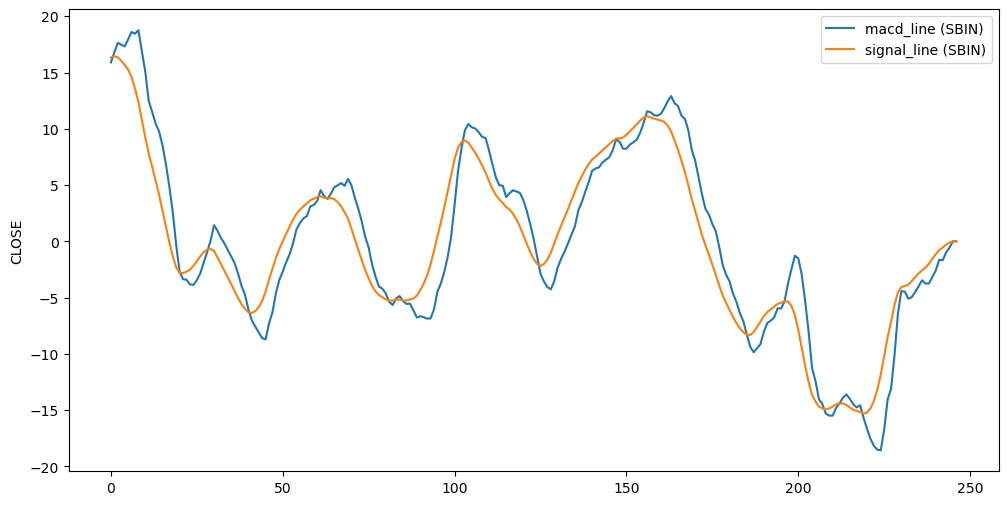
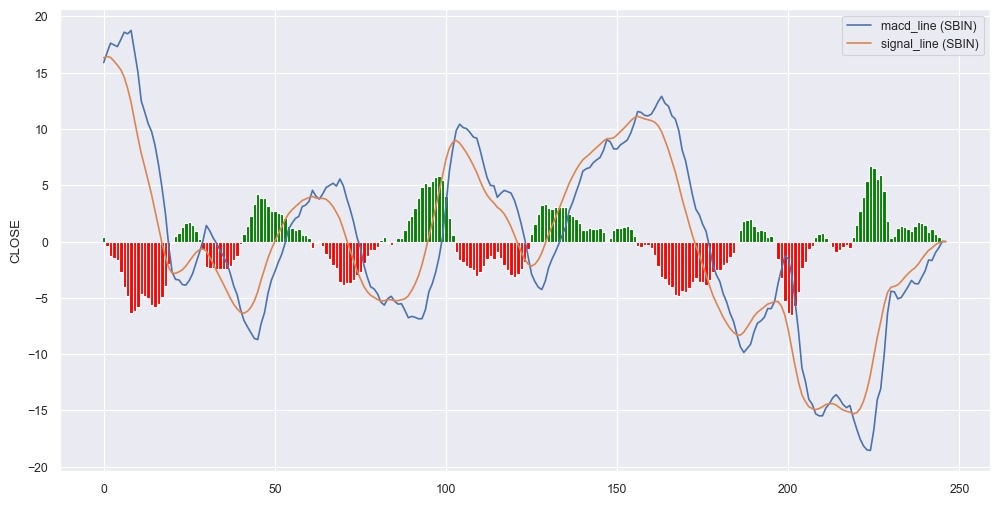
readme

diff --git a/Strategies/README.md b/Strategies/README.md
@@ -1,17 +1,53 @@
-## Trading Strategies
+# Trading Strategies
 
 
-#### Basic Strategy
+### Basic
 This is one of the simplestst strategy. Being the easiest to implement, this will lead to bad trading decisions most of the time. Let us consider a situation where a stock's price increases for n-1 days and then suddenly drops on the nth day, for example increases for a few days by huge amounts before dropping by 1 rupee. This might turnout to be very frequent leading to no buy signals. Similar goes for the converse case.
 
 
-#### DMA 
+### DMA 
 We can combine different moving averages to get better sense of the trends. For example, we can have a fast moving average (window = 50 days) and a slow moving average (window = 200 days). Now, we can identify significant turning points in the market, such as a death cross. A death cross occurs when the fast moving average crosses below the slow moving average. <br>
 ![](./figures/death.png) <br>
 This is considered as a good time to sell shares. Another similar turning point is a golden cross, which has the opposite trend with respect to a death cross.
 
-#### DMA++
-The DMA++ or AMA (Adaptive Moving Average) is one of the best indicators for analyzing market trends. 
 
-#### RSI Indicator
-![](./figures/rsi-bound.jpeg)
+### DMA++
+The DMA++ or AMA (Adaptive Moving Average) is one of the best indicators for analyzing short-term market trends as this adapts to the changing market conditions. This leads to more accurate signals, compared to fixed-parameter moving averages. It has a large number of variants, for example: TRAMA, KAMA, etc.
+
+
+### MACD
+
+![](./figures/macd-sig.jpeg)<br>
+MACD's ability to measure momentum, detect divergence and generate clear signals make it a standout indicator. However, it is known to give false signals in case of flat trends (no upward or downwards momentum).
+
+### RSI
+
+![](./figures/rsi-bound.jpeg)<br>
+This strategy, despite being very good at trend reversals, has some flaws. If a stock is oversold, RSI does not guarantee that it cannot be more oversold. This can lead to loss in trading. It should rather be used for what it is intended towards, measuring the "STRENGTH" of the trend.
+
+### ADX
+
+![](./figures/adx.jpeg)<br>
+This is another strength-based indicator which is very reliable for distinguishing trending and non-trending days. It is often depicted by a single line graph which is simple enough to enhance faster decision-making. Usually, 
+
+| ADX Value Range | Trend Strength        |
+|-----------------|-----------------------|
+| 0-25            | Absent or Weak Trend  |
+| 25-50           | Strong Trend          |
+| 50-75           | Very Strong Trend     |
+| 75-100          | Extremely Strong Trend|
+
+<br>
+
+### Linear Regression
+This machine learning based strategy trains a model over a dataset and makes predictions for future stock prices. It works best for seasonal data as the model predicts prices more accurately and this increases the chances of profit by a huge margin. Using gradiet descent can further improve the performace of the algorithm.
+
+
+### Pairs
+
+![](./figures/pairs.jpeg)<br>
+![](./figures/pair-score.jpeg)<br>
+One interesting aspect of pairs trading is its reliance on statistical analysis and historical relationships between assets. Unlike other trading strategies that focus solely on price movements or fundamental analysis, pairs trading involves quantitative analysis to identify pairs with historically stable relationships.
+
+
+
